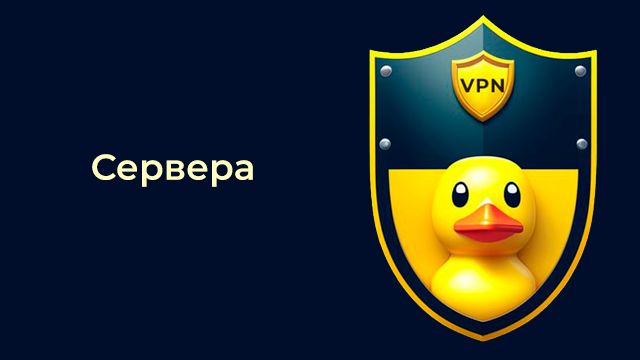
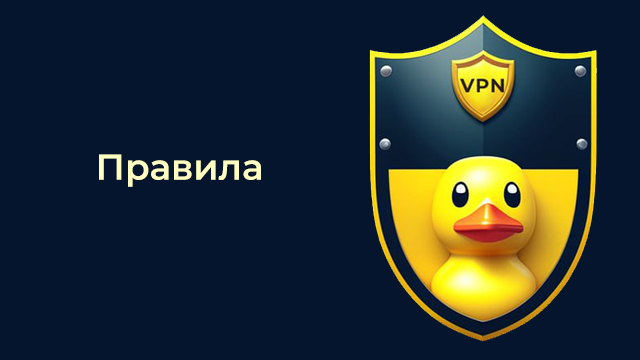
WIP

diff --git a/handlers/user/utils.py b/handlers/user/utils.py
@@ -91,15 +91,15 @@ async def send_servers_and_rates(chat_id):
 
 
 async def send_rates(chat_id, key_id):
-    file = InputFile("content/servers.png")
+    file = InputFile("content/rates.png")
     key = get_key_by_id(key_id=key_id)
     srv = await get_server_by_name(key.server_name)
-    await bot.send_photo(photo=file, caption= 'Выберите тариф для продления',
+    await bot.send_photo(photo=file, caption='Выберите тариф для продления',
                          chat_id=chat_id, parse_mode='HTML', reply_markup=get_extend_period_kb(key=key, srv=srv))
 
 
 async def send_extend_or_new_key(chat_id):
-    file = InputFile("content/servers.png")
+    file = InputFile("content/subscribe.png")
     await bot.send_photo(photo=file, caption='Выберите ключ, который хотите продлить, или оформите новый\n'
                                              '<i>Примечание: вы не можете продлить пробный ключ. Если он истек - нужно выпустить новый, постоянный</i>',
                          chat_id=chat_id, parse_mode='HTML', reply_markup=get_keys_by_user_kb(chat_id=chat_id))
